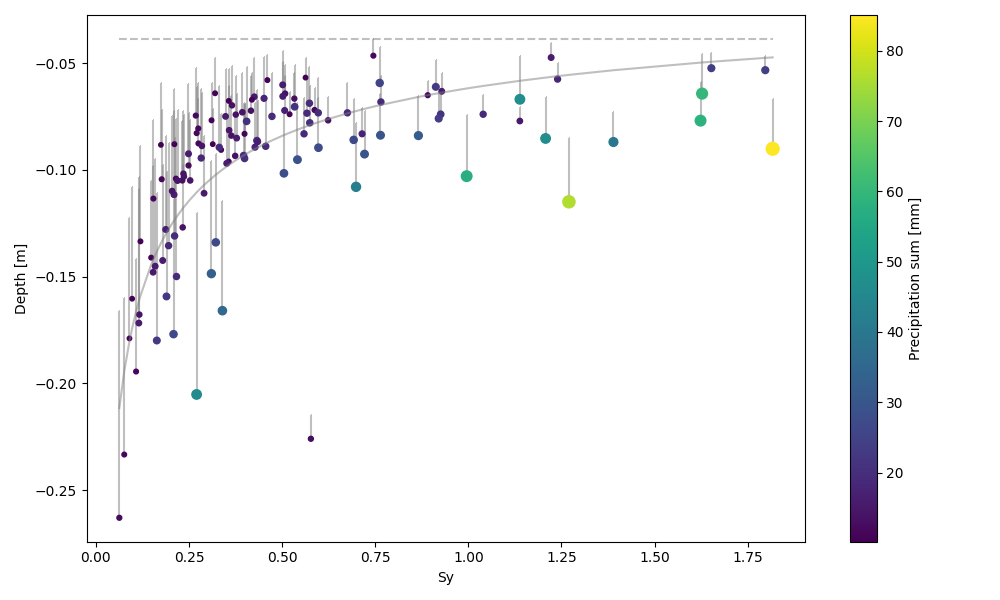
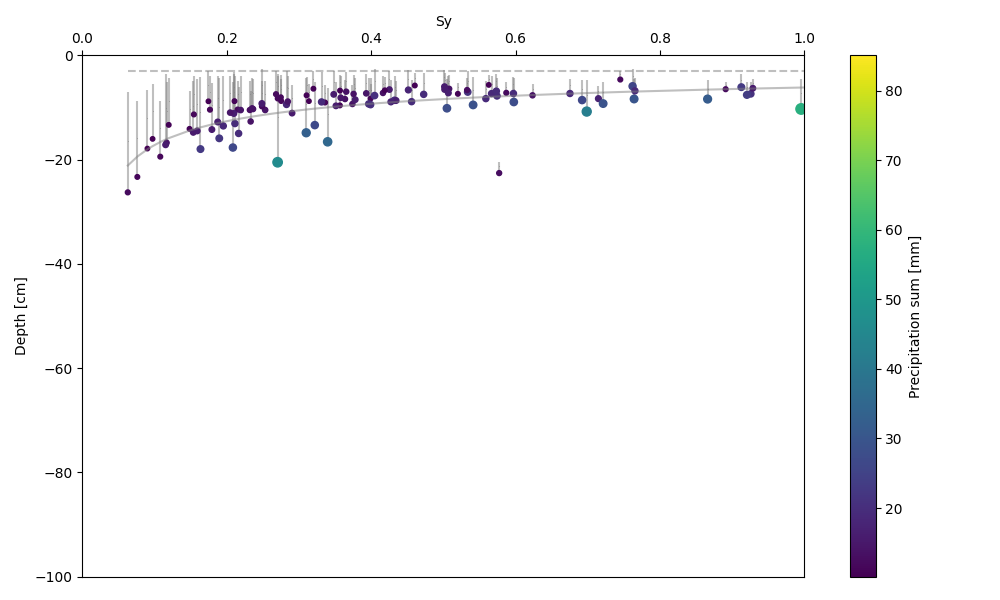
Selection of data points is working as an option

diff --git a/peatland_time_series/visualization.py b/peatland_time_series/visualization.py
@@ -1,4 +1,5 @@
 from typing import Optional, Set, Tuple
+from warnings import warn
 
 import matplotlib.pyplot as plt
 import numpy
@@ -41,6 +42,8 @@ def show_selector(sy: pandas.DataFrame, figsize: Optional[Tuple[int, int]] = Non
     Set[int]
         A set of indexes of the selected data points.
     """
+    warn('This function is deprecated, use "show_depth(..., select=True)" instead.', DeprecationWarning, stacklevel=2)
+
     if figsize:
         fig, ax = plt.subplots(figsize=figsize)
     else:
@@ -66,7 +69,9 @@ def show_selector(sy: pandas.DataFrame, figsize: Optional[Tuple[int, int]] = Non
     return selected_indexes
 
 
-def show_depth(sy: pandas.DataFrame, height_of_line: Optional[float] = None, *args, **kwargs) -> None:
+def show_depth(sy: pandas.DataFrame,
+               height_of_line: Optional[float] = None,
+               select: bool = False) -> Optional[Set[int]]:
     """Plot the depth in function of Sy.
 
     Examples
@@ -77,21 +82,26 @@ def show_depth(sy: pandas.DataFrame, height_of_line: Optional[float] = None, *ar
 
     sy = filter_sy(sy, sy_min=0, delta_h_min=.01, precipitation_sum_min=10, precipitation_sum_max=100)
 
-    visualization.show_depth(sy)
+    visualization.show_depth(sy, height_of_line=2)
+    # For selecting indexes (for removing data points for exemple)
+    selected_indexes = visualization.show_depth(sy, select=True)
     ```
 
     Parameters
     ----------
     sy
         DataFrame of Sy, obtained by the `calculate_sy` function.
-    args
-        Any args that will be give to to the plt.scatter plot.
-    kwargs
-        Any named args that will be give to to the plt.scatter plot.
+    height_of_line
+        Optional, draw an asymptote line at specified height.
+    select
+        If True, the data points can be selected on the plot.
+        When the plot is closed, the index of the selected data points
+        are returned.
 
     Returns
     -------
-    None
+    Optional[Set[int]]
+        None if "select" is False (default). Set of selected indexes if "select" is True.
     """
     fig, ax = plt.subplots(figsize=(10, 6))
 
@@ -108,22 +118,21 @@ def show_depth(sy: pandas.DataFrame, height_of_line: Optional[float] = None, *ar
         c='gray',
         fmt=',',  # Marker is a pixel
         alpha=.5,
-        zorder=-1  # Vizualy set the plot behind others
+        zorder=-1  # Visualy set the plot behind others
     )
 
     # For the scatter plot
-    scatter = ax.scatter(x=sy['sy'], y=sy['min_wtd'],
-                         c=precepitation_sum, s=precepitation_sum,
-                         vmin=min(precepitation_sum), vmax=max(precepitation_sum))
-    fig.colorbar(scatter, label='Precipitation sum [mm]')
+    scatter_plot = ax.scatter(x=sy['sy'], y=sy['min_wtd'],
+                              c=precepitation_sum, s=precepitation_sum,
+                              vmin=min(precepitation_sum), vmax=max(precepitation_sum),
+                              picker=select)
+    fig.colorbar(scatter_plot, label='Precipitation sum [mm]')
 
     # Plotting the "asymptote" line
     sorted_sy = np.sort(sy['sy'])
 
-    if not height_of_line:
-        height_of_line = max(sy['max_wtd'].values)
-
-    ax.plot(sorted_sy, [height_of_line for _ in sorted_sy], '--', color='gray', alpha=.5)
+    if height_of_line is not None:
+        ax.plot(sorted_sy, [height_of_line for _ in sorted_sy], '--', color='gray', alpha=.5)
 
     # Curve fit
     pars, cov = curve_fit(f=power_law, xdata=sy['sy'].values, ydata=sy['min_wtd'])
@@ -138,6 +147,22 @@ def show_depth(sy: pandas.DataFrame, height_of_line: Optional[float] = None, *ar
     ax.set_ylabel('Depth [cm]')
 
     plt.tight_layout()
+
+    if select:
+        selected_indexes = set()
+
+        def on_pick(event):
+            indexes = event.ind
+            for index in indexes:
+                selected_indexes.add(index)
+                scatter_plot._sizes[index] = 0
+                fig.canvas.draw()
+
+        fig.canvas.mpl_connect('pick_event', on_pick)
+        plt.show()
+
+        return selected_indexes
+
     plt.show()
 
 

diff --git a/README.md b/README.md
@@ -68,21 +68,20 @@ Note that the Sy DataFrame can by filtered with the `filter_sy` function.
 ```python
 time_series = read_time_series('path/to/time-series.csv')
 sy = calculate_sy(time_series=time_series)
-
 sy = filter_sy(sy, sy_min=0, delta_h_min=.01, precipitation_sum_min=10, precipitation_sum_max=100)
 
-visualization.show_depth(sy, label='Depth', color='blue')
+visualization.show_depth(sy, heigh_of_file=-3)
 ```
 Output:
 ![depth_by_sy](https://github.com/ulaval-rs/peatland-time-series/blob/main/docs/images/depth_by_sy.png)
 
 
 ### Interactively select data points.
-The `visualization.show_selector` plots an interactive selector of the Depth(Sy)
+The `visualization.show_depth(..., select=True)` funtion plots an interactive selector of the Depth(Sy)
 graph. You can click on the data points you wish to exclude.
 A set of indexes of the selected data points is returned.
 ```python
-selected_indexes = show_selector(sy)
+selected_indexes = show_depth(sy, select=True)
 
 # selected_indexes
 {0, 100, 5, 101, 103, 46, 79, 47, 19, 24}
